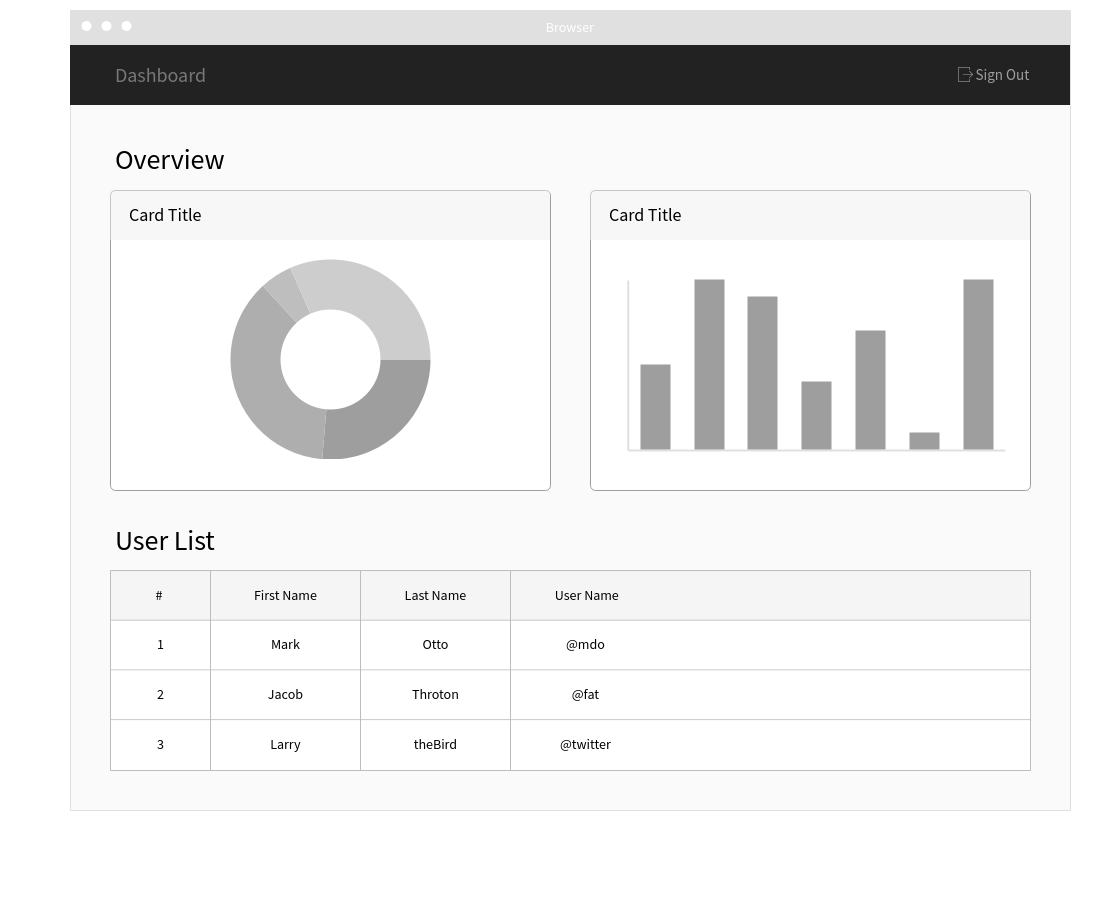
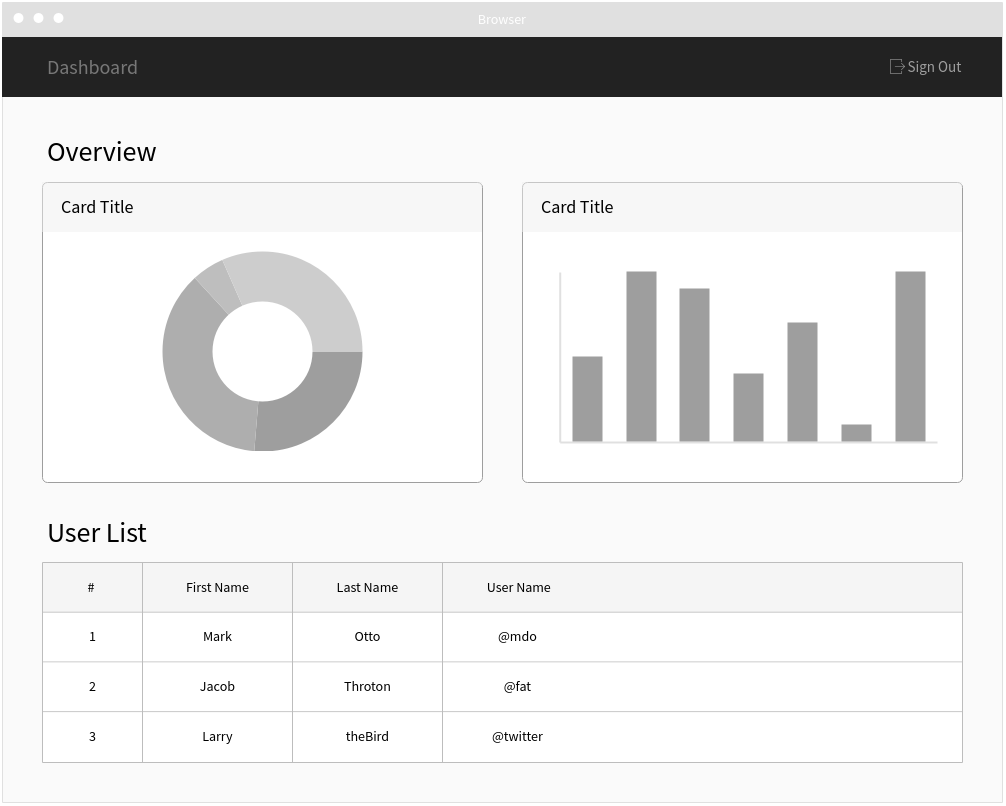
Update image

diff --git a/Angular.md b/Angular.md
@@ -25,6 +25,6 @@ By using the above tech stack, create a dashboard interface that consist of **tw
 
 ##### Module 1 - Sign In
 
-[![Sign Interface](https://s3.amazonaws.com/assets.mockflow.com/app/wireframepro/company/C8657ed93c04c4a7d9c6c65f7bd9d3131/projects/Daa32f88a5555b2d7d7270b700dd74813/pages/9cbd78de38b34c098039792771c342f0/image/9cbd78de38b34c098039792771c342f0.png)]()
+[![Sign Interface](assets/img/signin.png)]()
 
 This module is for authenticate user before allowing them to access the **Overview** module. Implement the **Sign In** module interface in Angular using HTML and Sass.
